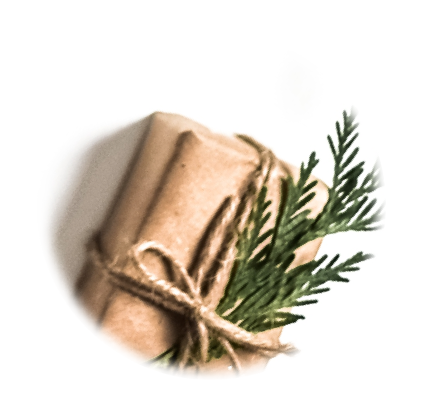
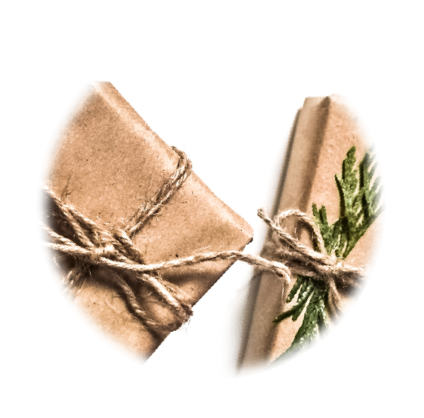
uppade advent round + knappar

diff --git a/css/styles.css b/css/styles.css
@@ -634,14 +634,14 @@ iframe.slowtv {
 
 .readmore--outline {
   border: 1px solid white;
-  background: rgba(0, 0, 0, 0.2);
+  background: rgba(107, 115, 98, 0.8);
   color: #FFFFFF;
   position: absolute;
   bottom: 6rem;
-  border-radius: .4rem;
+  border-radius: .2rem;
   padding: 0.6rem; }
   .readmore--outline:hover {
-    background: rgba(255, 255, 255, 0.4);
+    background: #6b7362;
     text-decoration: none; }
 
 @media only screen and (max-width: 765px) {

diff --git a/sass/components/button.scss b/sass/components/button.scss
@@ -34,14 +34,14 @@
 }
 .readmore--outline {
   border: 1px solid white;
-  background: rgba(0,0,0,0.2);
+  background: rgba(107, 115, 98, 0.8);
   color: #FFFFFF;
   position: absolute;
   bottom: 6rem;
-  border-radius: .4rem;
+  border-radius: .2rem;
   padding: 0.6rem;
   &:hover {
-    background: rgba(255, 255, 255, 0.4);
+    background: rgba(107, 115, 98, 1);
     text-decoration: none;
   }
 }

diff --git a/index.php b/index.php
@@ -33,7 +33,7 @@
         <!--<img class="lamm" src="../img/jul-round.png" alt="julmarknad" />-->
         <!--<img class="lamm" src="../img/lamm-round.png" alt="lamm" /> -->
         <!--<img class="lamm" src="../img/var-round.png" alt="lamm" />-->
-        <img class="butik" src="../img/advent-round.png" alt="handelsbod" />
+        <img class="butik" src="../img/advent-round2.png" alt="handelsbod" />
         <a class="readmore--outline" href="/handelsbod.php">Läs mer</a>
       </div>
     </div>
